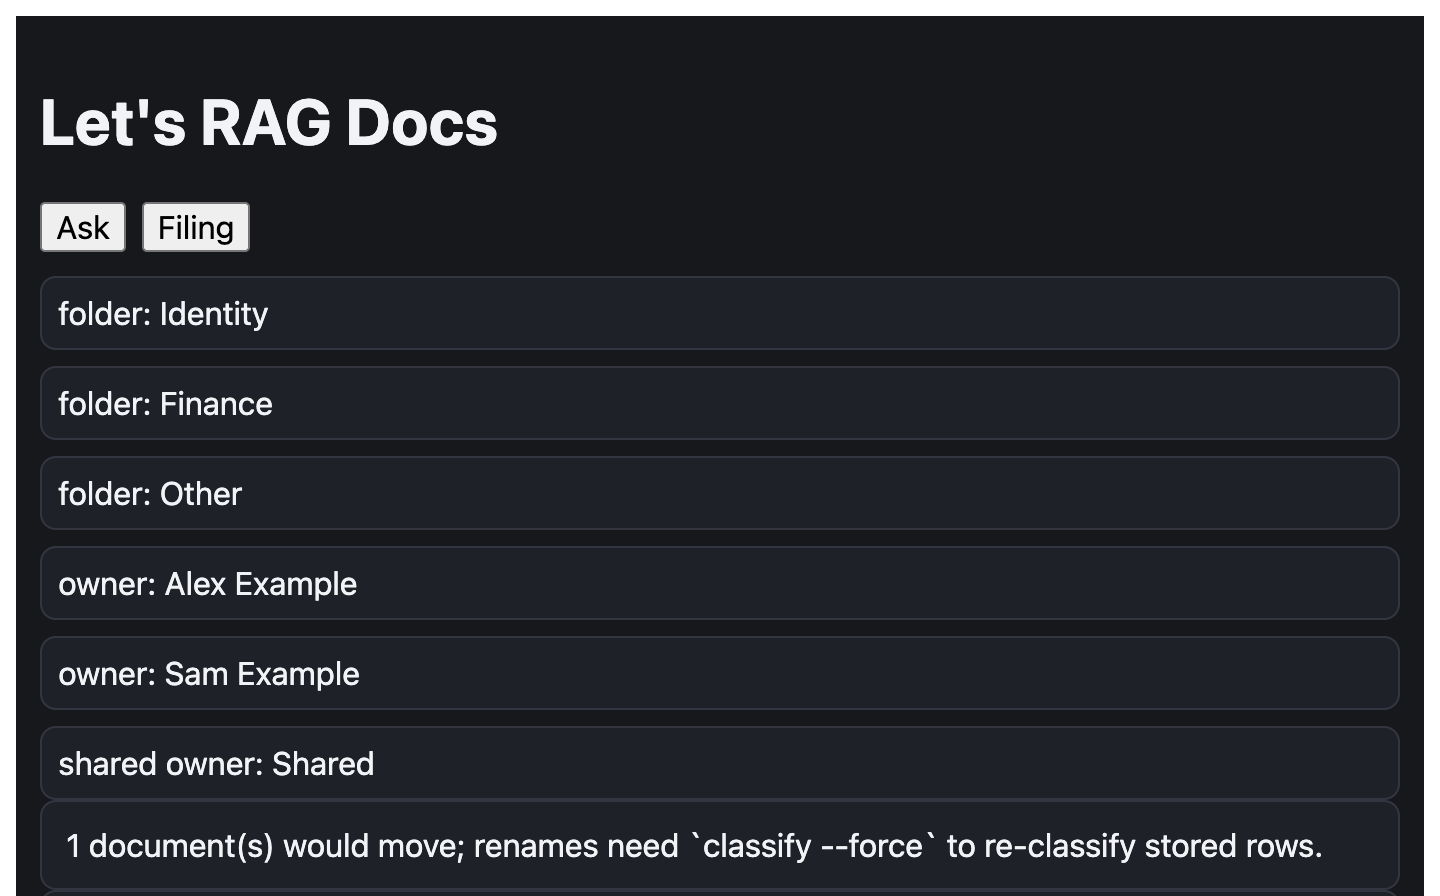
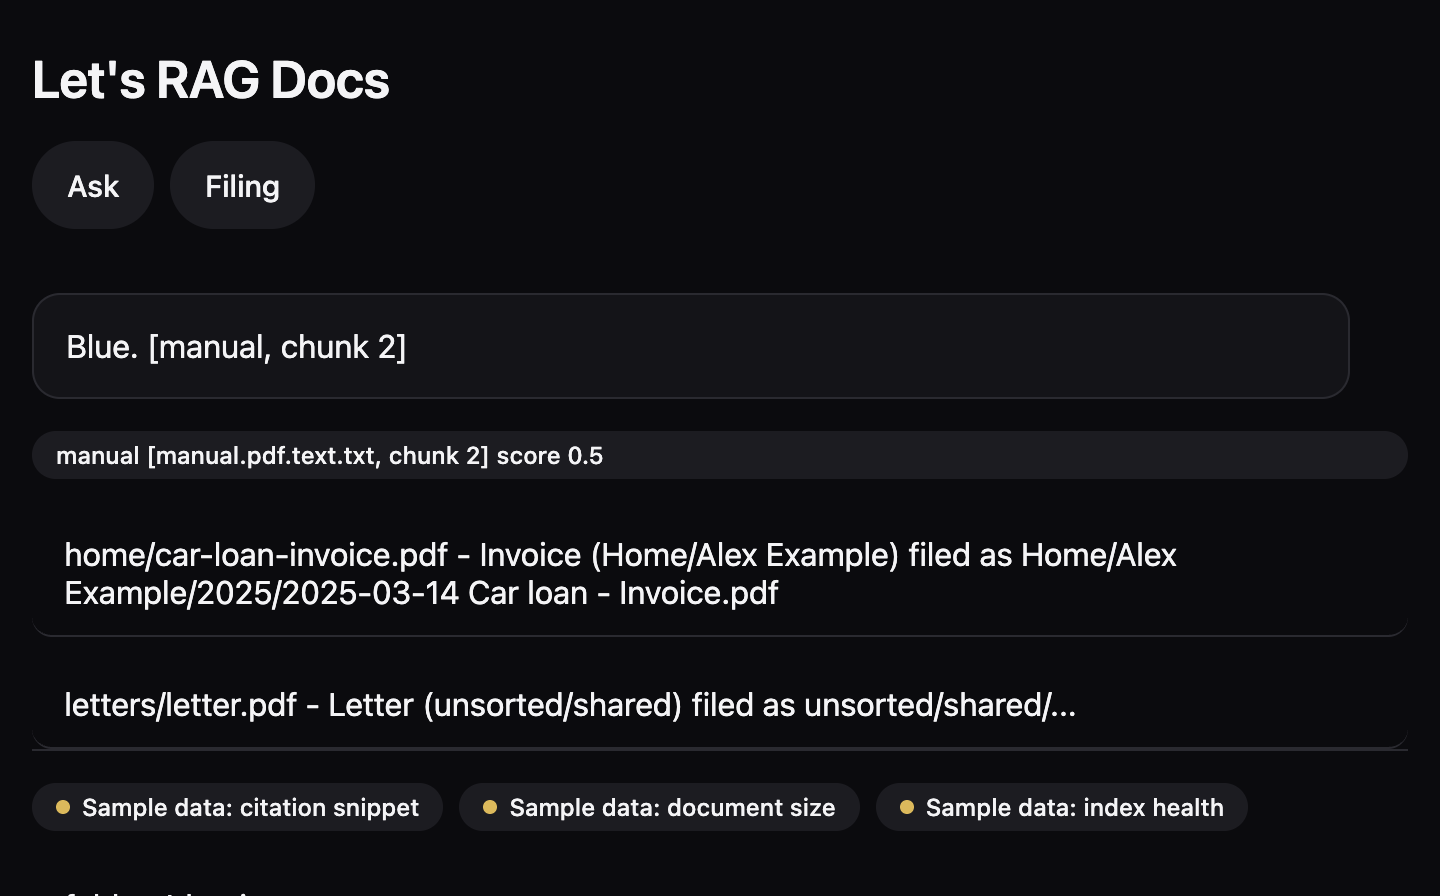
desktop: use the attached design theme tokens in ask/filing screens

diff --git a/desktop/renderer/app.css b/desktop/renderer/app.css
@@ -1,29 +1,77 @@
-#app {
-	margin: 0;
-	padding: 12px;
-	font-family: var(--sans);
-	background: var(--bg);
-	color: var(--fg);
+html,
+body {
+  margin: 0;
+  min-height: 100%;
+  background: var(--lc-bg);
+  color: var(--lc-fg);
+  font-family: var(--lc-font);
 }
 
 #app {
-	max-width: 1100px;
-	margin: 0 auto;
+  max-width: 1100px;
+  margin: 0 auto;
+  padding: var(--lc-s5) var(--lc-s4);
+  display: flex;
+  flex-direction: column;
+  gap: var(--lc-s4);
+}
+
+h1 {
+  margin: 0;
+  font-size: 26px;
+  font-weight: 600;
+  letter-spacing: -0.01em;
 }
 
 #nav {
-	display: flex;
-	gap: 8px;
-	margin-bottom: 12px;
+  display: flex;
+  flex: 1;
+  gap: var(--lc-s2);
+  margin-bottom: var(--lc-s4);
+}
+
+#askScreen,
+#filingScreen {
+  display: flex;
+  flex-direction: column;
+  gap: var(--lc-s4);
+  min-width: 0;
 }
 
 #answer,
 #filingNotice {
-	white-space: pre-wrap;
-	padding: 12px;
-	background: var(--surface);
-	border: 1px solid var(--line);
-	border-radius: 8px;
+  max-width: 62ch;
+  padding: var(--lc-s4);
+  border-radius: var(--lc-r-md);
+  background: var(--lc-surface);
+  border: 1px solid var(--lc-line);
+}
+
+#askView,
+#filingView {
+  height: 44px;
+  min-width: 44px;
+  padding: 0 var(--lc-s4);
+  border-radius: var(--lc-r-pill);
+  border: 1.5px solid var(--lc-line-strong);
+  background: transparent;
+  color: var(--lc-fg);
+  font-size: 15px;
+  font-weight: 500;
+  cursor: pointer;
+  transition: opacity var(--lc-quick) ease;
+}
+
+#askView,
+#filingView {
+  background: var(--lc-raised);
+  border-color: transparent;
+}
+
+#askView[aria-selected="true"],
+#filingView[aria-selected="true"] {
+  background: var(--lc-raised);
+  border-color: transparent;
 }
 
 #citations,
@@ -31,50 +79,134 @@
 #filingRows,
 #filingPreview,
 #saveErrors {
-	display: grid;
-	gap: 8px;
+  display: grid;
+  gap: var(--lc-s3);
+  min-width: 0;
+}
+
+#citations {
+  flex-wrap: wrap;
+}
+
+#citations .row,
+.pill {
+  padding: 0 var(--lc-s3);
+  height: 24px;
+  border-radius: var(--lc-r-pill);
+  background: var(--lc-raised);
+  border: 0;
+  font-size: 12px;
+  font-weight: 500;
+  white-space: nowrap;
+  display: inline-flex;
+  align-items: center;
+  gap: var(--lc-s2);
 }
 
 .row {
-	padding: 8px;
-	background: var(--surface);
-	border: 1px solid var(--line);
-	border-radius: 8px;
+  padding: var(--lc-s3) var(--lc-s4);
+  border-bottom: 1px solid var(--lc-line);
+  border-radius: var(--lc-r-sm);
+  background: transparent;
 }
 
-.pill {
-	padding: 4px 8px;
-	border: 1px solid var(--line);
-	border-radius: 999px;
-	background: var(--surface);
+#libraryRows,
+#filingRows,
+#filingPreview,
+#saveErrors {
+  border-bottom: 1px solid var(--lc-line);
 }
 
-[data-sample="true"] {
-	color: var(--warn);
+#filingNotice {
+  white-space: pre-wrap;
+  font-size: 16px;
+  line-height: 1.55;
+}
+
+#saveErrors {
+  color: var(--lc-danger);
 }
 
 #filingPreview {
-	font-family: var(--mono);
-	font-size: 12px;
+  font-size: 13px;
+  color: var(--lc-muted);
+}
+
+.samplePills {
+  display: flex;
+  flex-wrap: wrap;
+  gap: var(--lc-s2);
+  align-items: center;
+  color: var(--lc-muted);
+  font-size: 13px;
+}
+
+[data-sample="true"] {
+  display: inline-flex;
+  align-items: center;
+  gap: 6px;
+  height: 24px;
+  padding: 0 var(--lc-s3);
+  border-radius: var(--lc-r-pill);
+  background: var(--lc-raised);
+  color: var(--lc-fg);
+  font-size: 12px;
+  font-weight: 500;
+  white-space: nowrap;
+}
+
+[data-sample="true"]::before {
+  content: '';
+  width: 7px;
+  height: 7px;
+  border-radius: 50%;
+  background: var(--lc-attention);
 }
 
 button,
 button:disabled {
-	font: inherit;
+  font: inherit;
+}
+
+button:focus-visible {
+  outline: 3px solid var(--lc-fg);
+  outline-offset: 2px;
+}
+
+button:hover {
+  opacity: 0.86;
+}
+
+button:disabled {
+  opacity: 0.4;
+  cursor: default;
+}
+
+@media (prefers-reduced-motion: reduce) {
+  button {
+    transition: none;
+  }
 }
 
 @media (max-width: 480px) {
-	#nav,
-	#citations,
-	#libraryRows,
-	#filingRows,
-	#filingPreview {
-		grid-flow: row;
-		grid-template-columns: 1fr;
-	}
+  #nav,
+  #askScreen,
+  #filingScreen {
+    flex-direction: column;
+    width: 100%;
+  }
 
-	#nav {
-		flex-direction: column;
-		width: 100%;
-	}
+  #askView,
+  #filingView {
+    width: 100%;
+    justify-content: flex-start;
+  }
+
+  #citations,
+  #libraryRows,
+  #filingRows,
+  #filingPreview,
+  #saveErrors {
+    grid-template-columns: 1fr;
+  }
 }

diff --git a/desktop/renderer/tokens.css b/desktop/renderer/tokens.css
@@ -1,29 +1,99 @@
-:root {
-	--bg: #f7f8fa;
-	--fg: #17191d;
-	--muted: #5b6370;
-	--line: #d6dbe4;
-	--accent: #24517f;
-	--ok: #1d7048;
-	--warn: #92610e;
-	--error: #8c2f2f;
-	--surface: #ffffff;
-	--mono: ui-monospace, SFMono-Regular, Menlo, Monaco, Consolas, monospace;
-	--sans: ui-sans-serif, system-ui, -apple-system, Segoe UI, Roboto, sans-serif;
+/* Theme values copied from the attached design-components source as plain CSS.
+   The design repo uses .lc-dark/.lc-light classes; Electron can also switch through
+   prefers-color-scheme/nativeTheme, so both blocks repeat the shared tokens to keep one source of truth. */
+
+@media (prefers-color-scheme: light) {
+  :root {
+    color-scheme: light;
+    --lc-font: 'Poppins', system-ui, sans-serif;
+
+    --lc-bg: #f5f5f7;
+    --lc-surface: #ffffff;
+    --lc-raised: #ededf1;
+    --lc-line: #dedee4;
+    --lc-line-strong: #8a8a94;
+    --lc-fg: #0b0b0e;
+    --lc-muted: #5c5c66;
+    --lc-inverse-bg: #0b0b0e;
+    --lc-inverse-fg: #ffffff;
+    --lc-positive: #17703d;
+    --lc-attention: #8a5700;
+    --lc-danger: #c62828;
+    --lc-flag-orange: #ff9500;
+    --lc-flag-yellow: #ffcc00;
+    --lc-flag-green: #34c759;
+    --lc-flag-purple: #af52de;
+    --lc-flag-gray: #8e8e93;
+
+    --lc-r-sm: 10px;
+    --lc-r-md: 14px;
+    --lc-r-lg: 24px;
+    --lc-r-pill: 999px;
+
+    --lc-s1: 4px;
+    --lc-s2: 8px;
+    --lc-s3: 12px;
+    --lc-s4: 16px;
+    --lc-s5: 24px;
+    --lc-s6: 32px;
+    --lc-s7: 48px;
+    --lc-s8: 64px;
+
+    --lc-quick: 120ms;
+    --lc-fade: 500ms;
+    --lc-grow: 1.5;
+    --lc-grow-logo: 1.25;
+
+    --lc-white: #ffffff;
+    --lc-black: #000000;
+    --lc-ink: #0b0b0e;
+  }
 }
 
 @media (prefers-color-scheme: dark) {
-	:root {
-		--bg: #15181d;
-		--fg: #f1f3f6;
-		--muted: #a4acb8;
-		--line: #303642;
-		--accent: #84bbe6;
-		--ok: #6cc99a;
-		--warn: #e3b35c;
-		--error: #e09191;
-		--surface: #1d2129;
-		--mono: ui-monospace, SFMono-Regular, Menlo, Monaco, Consolas, monospace;
-		--sans: ui-sans-serif, system-ui, -apple-system, Segoe UI, Roboto, sans-serif;
-	}
+  :root {
+    color-scheme: dark;
+    --lc-font: 'Poppins', system-ui, sans-serif;
+
+    --lc-bg: #0b0b0e;
+    --lc-surface: #141418;
+    --lc-raised: #1c1c22;
+    --lc-line: #2a2a31;
+    --lc-line-strong: #6a6a74;
+    --lc-fg: #f4f4f6;
+    --lc-muted: #a0a0aa;
+    --lc-inverse-bg: #ffffff;
+    --lc-inverse-fg: #0b0b0e;
+    --lc-positive: #5bd08a;
+    --lc-attention: #f2b544;
+    --lc-danger: #ff6b6b;
+    --lc-flag-orange: #ff9f0a;
+    --lc-flag-yellow: #ffd60a;
+    --lc-flag-green: #30d158;
+    --lc-flag-purple: #bf5af2;
+    --lc-flag-gray: #8e8e93;
+
+    --lc-r-sm: 10px;
+    --lc-r-md: 14px;
+    --lc-r-lg: 24px;
+    --lc-r-pill: 999px;
+
+    --lc-s1: 4px;
+    --lc-s2: 8px;
+    --lc-s3: 12px;
+    --lc-s4: 16px;
+    --lc-s5: 24px;
+    --lc-s6: 32px;
+    --lc-s7: 48px;
+    --lc-s8: 64px;
+
+    --lc-quick: 120ms;
+    --lc-fade: 500ms;
+    --lc-grow: 1.5;
+    --lc-grow-logo: 1.25;
+
+    --lc-white: #ffffff;
+    --lc-black: #000000;
+    --lc-ink: #0b0b0e;
+  }
 }
